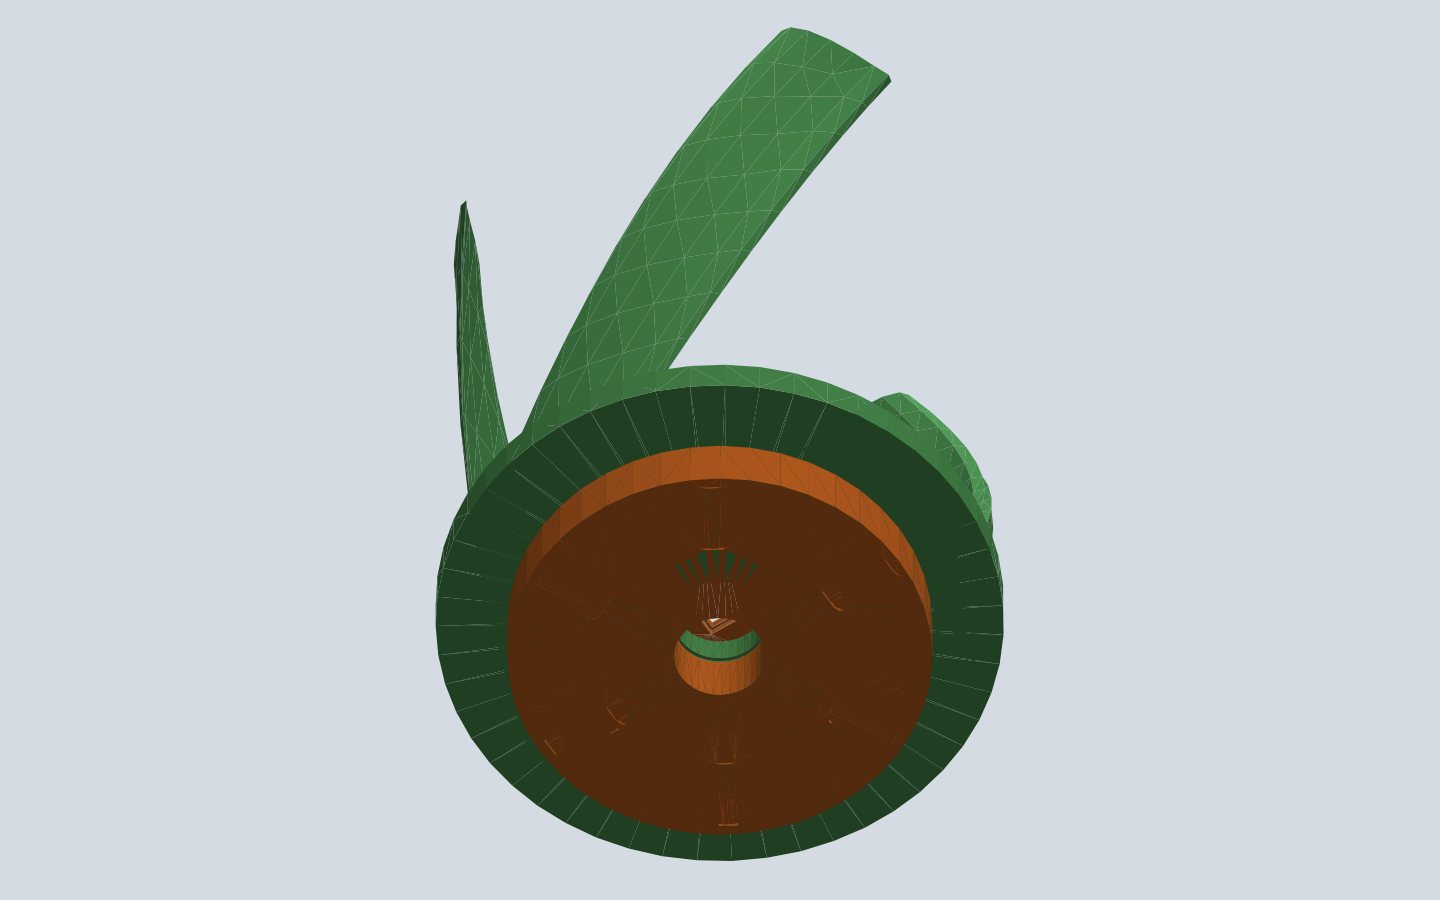
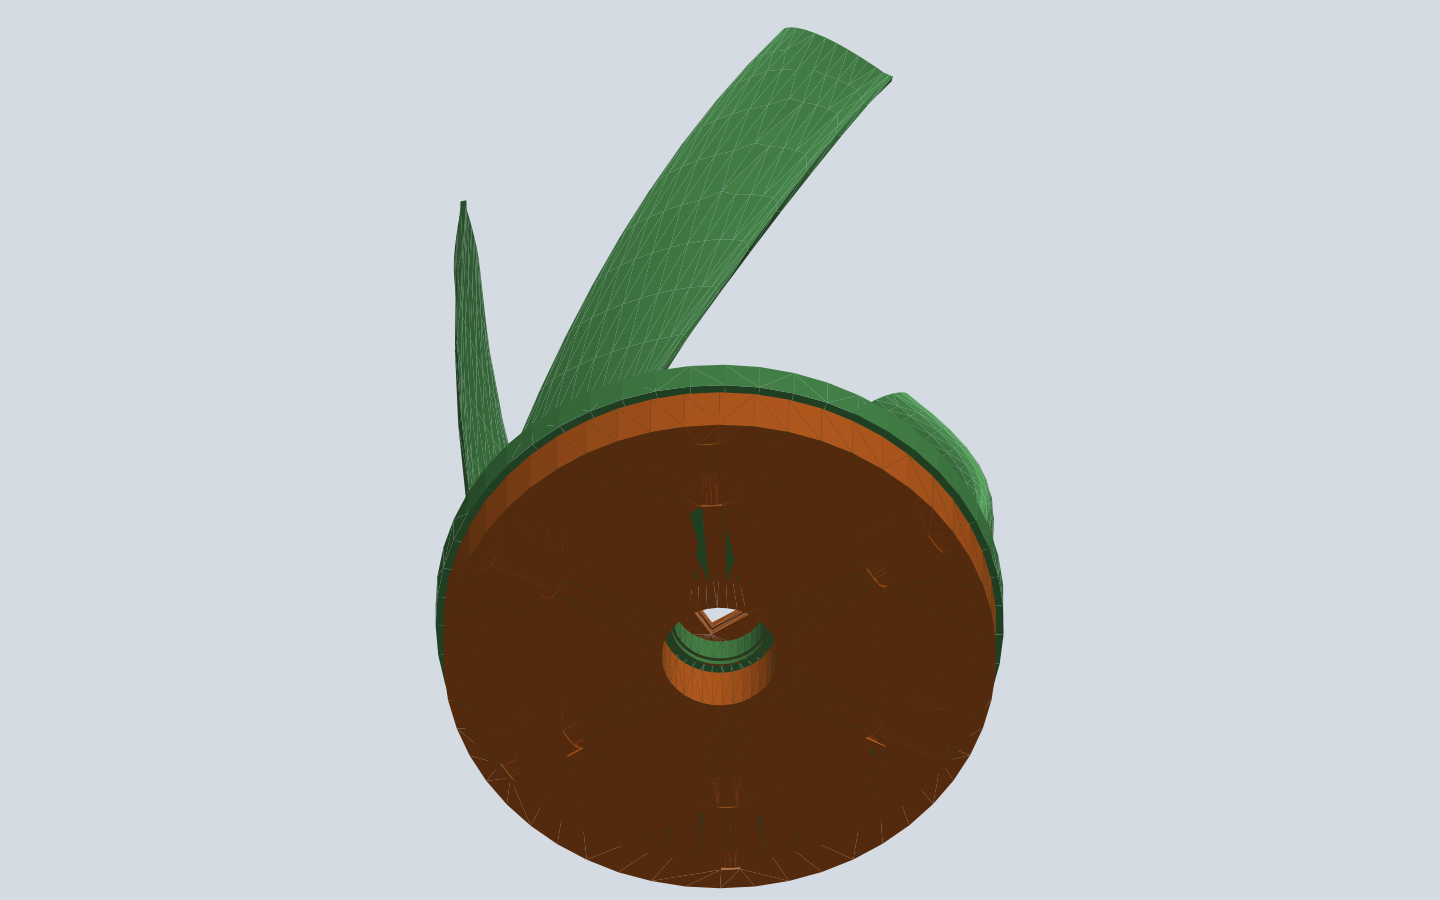
docs(print-kit): review shots after under-root pack
Cage 74.1 x 8.0 on PCD 58.1. Outer land r=33.8 under blade R=34. Y-frame boss no longer matches the race OD.

Changed region(s): [[0.2812, 0.2489, 0.7188, 0.9956], [0.375, 0.0311, 0.625, 0.4356]]

diff --git a/docs/agentic/print-kit-review/README.md b/docs/agentic/print-kit-review/README.md
@@ -1,11 +1,12 @@
 # Print-kit review shots (2026-08-17)
 
-Radial-axis thin thrust **under the blade roots**. Pack height is the
-roller diameter. The cage is a spacer (ID looser than the plate bore).
-`pack` hides the rotor so the lying rollers / radial windows are
-visible. `races` looks up from under the plate. `hub` is a close stack.
-`side` shows the short pack; the square stator post is supposed to
-reach the retainer — that is not a drum. The base boss seats the axle
-and does not match the race OD.
+Radial-axis thin thrust **under the blade roots**. Exam: 6× Ø8.0 × L9.6
+on PCD 58.1 (outer land r=33.8, blade R=34.0). Cage 74.1 × 8.0; flange
+Ø74.1 inside plate Ø76.0. Cage ID looser than the plate bore. Base
+Y-frame 52×58, not a race-OD cylinder. `pack` hides the rotor so the
+lying rollers / radial windows are visible. `races` looks up from under
+the plate. `hub` is a close stack. `side` shows the short pack; the
+square stator post is supposed to reach the retainer — that is not a
+drum.
 
 These are the check renders from `npm run render:print-kit`, copied here so they are not stuck in gitignored `docs/qa/`.
